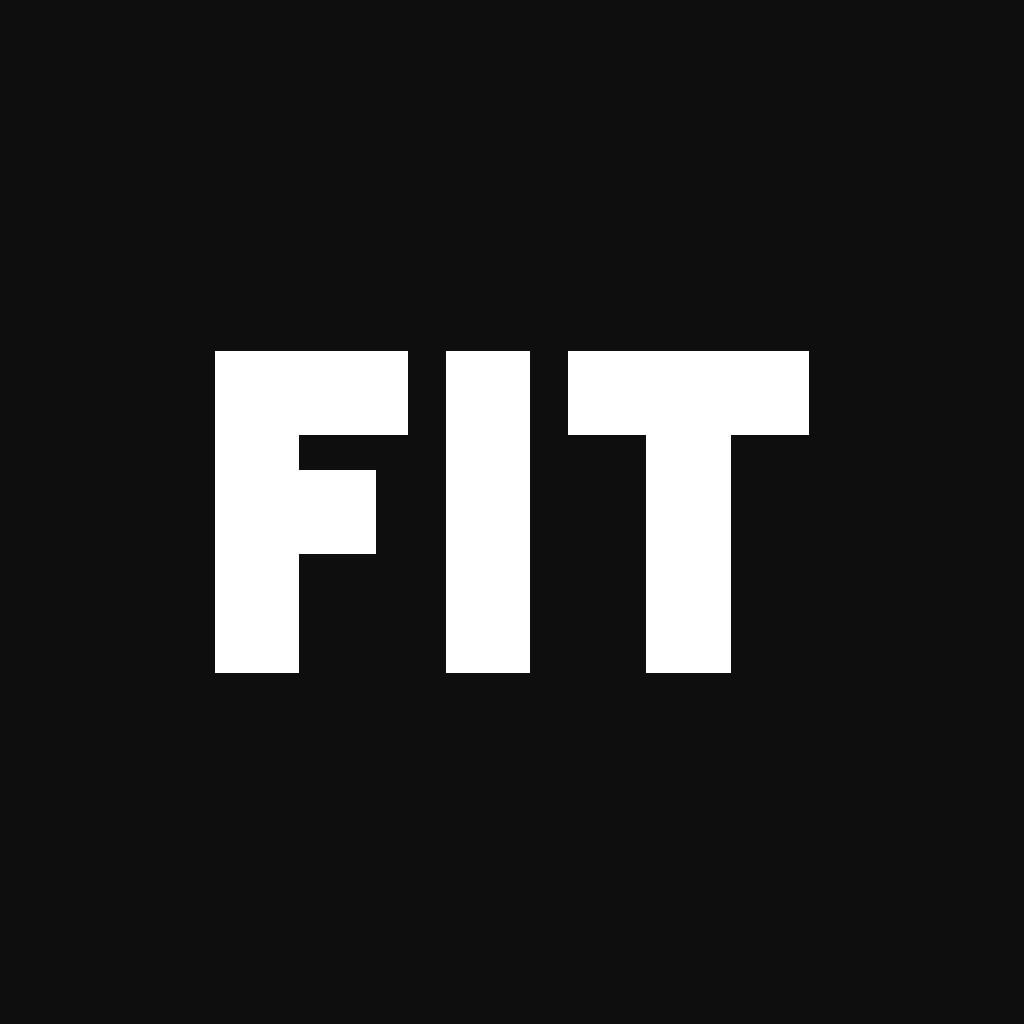
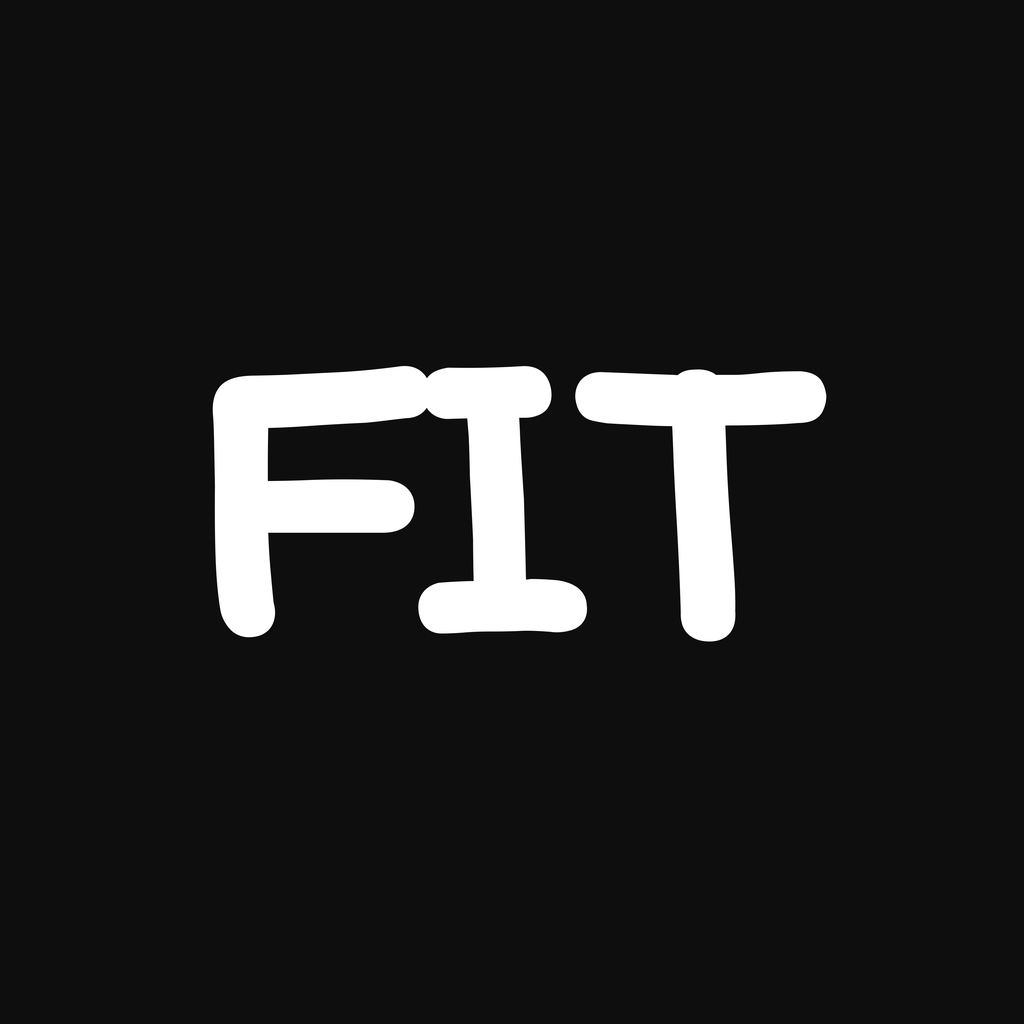
아이콘과 시작 화면도 같은 손으로 쓴다
글꼴을 통째로 바꾸고 나니 화면 안은 손글씨인데 홈 화면 아이콘과 시작 화면만
각진 블록으로 남아 있었다. 앱을 여는 첫 삼 초가 다른 앱의 얼굴이었다.

넷 다 이서윤체로 구웠다 — 앱 아이콘, 안드로이드 적응형 앞면, 시작 화면,
파비콘. 굽는 스크립트와 그 이유를 assets/images 에 함께 두었다.

<h3>선을 한 겹 두른다</h3>

손글씨는 획이 가늘다. 그냥 찍으면 64px 파비콘에서 획이 사라진다. 채우기
둘레에 같은 색 선을 둘러 두께를 조금 보탠다 — <b>글꼴 파일은 안 건드리고
그림만 두껍게 그리는 것</b>이다. 라이선스가 금하는 것은 글꼴 파일 자체의
수정·재배포이고, 그 글꼴로 그린 그림은 로고·CI 까지 자유롭게 쓸 수 있다.

크기마다 굵기가 다르다. 1024 에서는 3%, 64 에서는 4.5% — 작을수록 더
보태야 획이 남는다. 네 배로 크게 그렸다가 줄여서 가장자리를 매끈하게 한다.

안드로이드 적응형은 가운데 66% 밖이 잘려 나갈 수 있어 앞면만 글자를
작게(칸의 46%) 잡았다.

<h3>로고가 전제를 잃고 있었다</h3>

"글자를 최대로 굵히고 자간을 좁혀 한 덩어리로 만든다. 흑백에서 무게를 낼 수
있는 것이 굵기밖에 없다" — 로고 파일에 그렇게 적혀 있었는데, 굵기를 전부
400 으로 눕히면서 그 전제가 사라졌다. 적어 놓은 대로 안 그려지고 있었다.

무게는 이제 크기가 낸다. 자간은 <b>반대로</b> 벌린다 — -1.2 로 조여 두었던
것인데, 손글씨는 글자 폭이 들쭉날쭉해서 조이면 F 의 가로획과 I 가 닿는다.

<h3>표식 없는 줄만 어긋나 있었다</h3>

여행 표식을 "안 정했으면 아무것도 안 그린다" 고 해 두었는데, 목록에 세워
보니 거꾸로였다 — 안 그리는 쪽이 그 줄만 왼쪽으로 밀어 놓는다. 자리는 잡되
아무것도 안 그린다.

typecheck 통과, 웹 번들 통과, 브라우저에서 눈으로 확인.

Changed region(s): [[0.1875, 0.3438, 0.8125, 0.6562]]

diff --git a/frontend/src/ui/logo.tsx b/frontend/src/ui/logo.tsx
@@ -1,6 +1,6 @@
 import { StyleSheet, Text, View } from 'react-native';
 
-import { Colors, Type, Weight } from '@/constants/theme';
+import { Colors, Type } from '@/constants/theme';
 
 /**
  * 로고.
@@ -12,9 +12,16 @@ import { Colors, Type, Weight } from '@/constants/theme';
  * <p>아래 설명 줄은 마크 크기에서 계산합니다. size 하나만 바꾸면 두 줄이
  * 같은 비율로 커지고 작아집니다.
  *
- * <p>글자를 최대로 굵히고 자간을 좁혀 한 덩어리로 만듭니다. 흑백에서
- * 이름이 이름으로 읽히려면 <b>무게</b>가 있어야 하고, 그 무게를 낼 수 있는
- * 것이 색이 아니라 굵기밖에 없습니다.
+ * <p>여태 <b>굵기</b>로 무게를 냈습니다 — 흑백 화면에서 이름이 이름으로
+ * 읽히려면 무게가 있어야 하는데, 색을 안 쓰기로 했으니 남는 것이 굵기뿐
+ * 이었습니다.
+ *
+ * <p>이제 글꼴이 손글씨 1종이라 굵기가 하나뿐입니다(ui/hand). 무게는
+ * <b>크기</b>가 냅니다. 대신 자간을 벌립니다 — 손글씨는 글자 폭이 들쭉날쭉
+ * 해서 조이면 획이 서로 닿습니다. 반듯한 고딕에서 붙여 두던 것과 반대입니다.
+ *
+ * <p>앱 아이콘과 시작 화면 그림도 이 글꼴로 구워 두었습니다
+ * (assets/images — 굽는 법은 그 폴더의 README 에 적어 두었습니다).
  */
 
 /** 워드마크만. 좁은 자리(내 계정 카드 등)에 씁니다. */
@@ -63,11 +70,10 @@ export function LogoLockup({ size = 80 }: { size?: number }) {
 
 const styles = StyleSheet.create({
   wordmark: {
-    fontWeight: Weight.heavy,
-    /* 워드마크는 글자끼리 붙어 한 덩어리로 보여야 합니다. 크기에 상관없이
-       같은 정도로 붙으려면 고정값이 아니라 비율이어야 하는데, 여기서는
-       가장 자주 쓰는 크기에서 맞춰 두고 큰 자리는 lockup 이 따로 잡습니다. */
-    letterSpacing: -1.2,
+    /* 붙이지 않고 벌립니다. 반듯한 고딕이던 때는 -1.2 로 조여 한 덩어리로
+       만들었는데, 손글씨는 글자마다 폭이 달라서 조이면 F 의 가로획과 I 가
+       닿습니다. 살짝 벌려야 세 글자가 따로 서면서도 한 이름으로 읽힙니다. */
+    letterSpacing: 1,
     color: Colors.text,
   },
   /* 왼쪽에 세웁니다. 로고만 가운데고 아래 글이 왼쪽이면 두 축이 생겨
@@ -77,7 +83,6 @@ const styles = StyleSheet.create({
   },
   tagline: {
     ...Type.label,
-    fontWeight: Weight.medium,
     color: Colors.textMuted,
     textAlign: 'left',
   },

diff --git a/frontend/assets/images/bake-icons.py b/frontend/assets/images/bake-icons.py
@@ -1,0 +1,62 @@
+# -*- coding: utf-8 -*-
+"""
+손글씨 워드마크를 아이콘 그림으로 굽습니다.
+
+획이 가늘어서 그냥 찍으면 작은 아이콘(64px)에서 사라집니다. 채우기 둘레에
+같은 색 선을 한 겹 둘러 두께를 조금 보탭니다 — 글꼴 파일은 안 건드리고
+그림만 두껍게 그리는 것입니다(라이선스가 금하는 것은 <파일>의 수정입니다).
+"""
+from PIL import Image, ImageDraw, ImageFont
+
+FONT = "D:/dev/works/beenie/fall-into-trip/frontend/assets/fonts/LeeSeoyun.ttf"
+OUT = "D:/dev/works/beenie/fall-into-trip/frontend/assets/images/"
+MARK = "FIT"
+
+SPECS = [
+    # 이름, 한 변, 바탕(없으면 투명), 글자색, 글자가 차지할 폭 비율, 선 굵기 비율
+    ("icon.png", 1024, (14, 14, 14, 255), (255, 255, 255, 255), 0.60, 0.030),
+    ("favicon.png", 64, (14, 14, 14, 255), (255, 255, 255, 255), 0.66, 0.045),
+    # 시작 화면은 흰 바탕 위에 얹힙니다(app.json). 그림 자체는 투명으로 둡니다.
+    ("splash-icon.png", 1024, None, (14, 14, 14, 255), 0.66, 0.028),
+    # 안드로이드는 동그랗게 잘라 냅니다. 가운데 66% 안에 들어와야 안 잘립니다.
+    ("android-icon-foreground.png", 1024, None, (255, 255, 255, 255), 0.46, 0.030),
+]
+
+# 크게 그려서 줄입니다. 선을 둘러 그린 가장자리가 그래야 매끈합니다.
+SS = 4
+
+
+def fit_size(size, want_w):
+    """글자 폭이 want_w 가 되는 글꼴 크기를 찾습니다."""
+    lo, hi = 8, size * 4
+    while lo < hi:
+        mid = (lo + hi + 1) // 2
+        f = ImageFont.truetype(FONT, mid)
+        w = f.getbbox(MARK)[2] - f.getbbox(MARK)[0]
+        if w <= want_w:
+            lo = mid
+        else:
+            hi = mid - 1
+    return lo
+
+
+for name, size, bg, fg, fill, bold in SPECS:
+    big = size * SS
+    img = Image.new("RGBA", (big, big), bg if bg else (0, 0, 0, 0))
+    d = ImageDraw.Draw(img)
+
+    fs = fit_size(big, big * fill)
+    font = ImageFont.truetype(FONT, fs)
+
+    # 글자 상자의 실제 크기로 가운데를 잡습니다. anchor 만 믿으면 글꼴마다
+    # 위아래가 쏠립니다.
+    x0, y0, x1, y1 = d.textbbox((0, 0), MARK, font=font)
+    px = (big - (x1 - x0)) / 2 - x0
+    py = (big - (y1 - y0)) / 2 - y0
+
+    d.text((px, py), MARK, font=font, fill=fg,
+           stroke_width=max(1, round(fs * bold)), stroke_fill=fg)
+
+    img = img.resize((size, size), Image.LANCZOS)
+    img.save(OUT + name, optimize=True)
+    print("구움", name, size, "글꼴", fs // SS)

diff --git a/frontend/assets/images/README.md b/frontend/assets/images/README.md
@@ -1,0 +1,36 @@
+# 아이콘과 시작 화면
+
+넷 다 **이서윤체로 구운 그림**입니다. 화면 안의 로고는 글자로 그리지만
+(`src/ui/logo.tsx`), 앱 아이콘과 시작 화면은 그림이어야 하므로 여기 둡니다.
+
+| 파일 | 쓰는 곳 | 바탕 | 글자 |
+|---|---|---|---|
+| `icon.png` | 앱 아이콘 (iOS·일반) | `#0E0E0E` | 흰색 |
+| `android-icon-foreground.png` | 안드로이드 적응형 아이콘 앞면 | 투명 | 흰색 |
+| `splash-icon.png` | 시작 화면 | 투명 | `#0E0E0E` |
+| `favicon.png` | 브라우저 탭 | `#0E0E0E` | 흰색 |
+
+바탕색은 `app.json` 이 정합니다 — 안드로이드 적응형은 `adaptiveIcon.backgroundColor`,
+시작 화면은 `expo-splash-screen` 의 `backgroundColor`.
+
+## 다시 구우려면
+
+```
+python assets/images/bake-icons.py
+```
+
+## 왜 선을 한 겹 두르나
+
+손글씨는 획이 가늡니다. 그냥 찍으면 64px 파비콘에서 획이 사라집니다.
+채우기 둘레에 같은 색 선을 둘러 두께를 조금 보탭니다 — **글꼴 파일은
+안 건드리고 그림만 두껍게 그리는 것**입니다. 흥국생명 라이선스가 금하는 것은
+글꼴 파일 자체의 수정·재배포이고, 그 글꼴로 그린 그림은 자유롭게 씁니다
+(로고·CI 까지 허용됩니다).
+
+크기마다 선 굵기가 다릅니다. 1024 에서는 3%, 64 에서는 4.5% — 작을수록
+더 보태야 획이 남습니다.
+
+## 안드로이드는 동그랗게 잘립니다
+
+적응형 아이콘은 가운데 66% 밖이 잘려 나갈 수 있습니다. 그래서 앞면 그림만
+글자를 작게(칸의 46%) 잡아 두었습니다. 나머지는 잘릴 일이 없어 60~66% 입니다.
